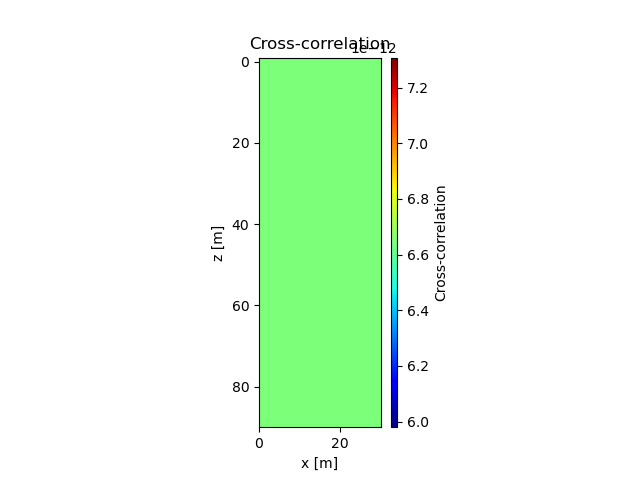
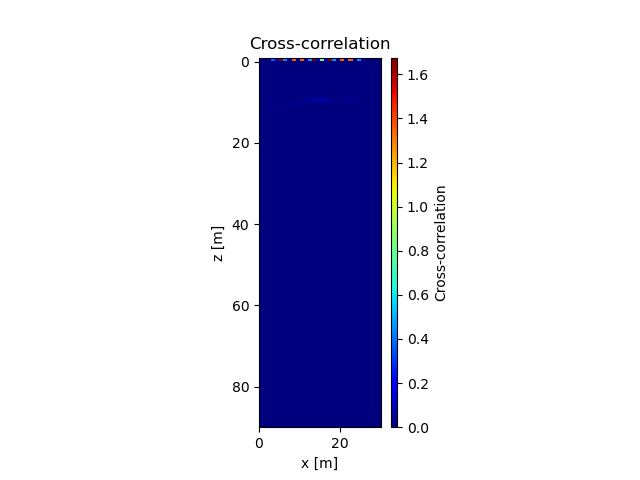
.astypeを使用してインデックス番号の計算を事前に済ませる

diff --git a/tools/Su_method.py b/tools/Su_method.py
@@ -2,16 +2,11 @@ import argparse
 import itertools
 import json
 import os
-from cProfile import label
-from math import tau
-from re import A
-from socket import AI_V4MAPPED_CFG
 
 import h5py
 import matplotlib.pyplot as plt
 import mpl_toolkits.axes_grid1 as axgrid1
 import numpy as np
-from requests import get
 from tqdm import tqdm
 
 from tools.outputfiles_merge import get_output_data
@@ -50,6 +45,11 @@ ground_depth = params['ground_depth']
 antenna_height = params['antenna_height']
 domain_z = ground_depth + antenna_height # アンテナ高さをz=0とする
 domain_array = np.zeros((domain_z, domain_x))
+
+class get_data:
+    def __init__(self):
+        self.rx_posi = int()
+
 
 rx1, dt = get_output_data(data_path, 1, 'Ez') # shape=(29679, 10)
 rx2, dt = get_output_data(data_path, 2, 'Ez')
@@ -98,17 +98,20 @@ tau_src2ref = L_src2ref / (c / np.sqrt(4)) # tau: [s], 試しに誘電率4で計
 # calculate cross-correlation
 cross_corr = np.zeros((domain_z, domain_x))
 
-def calc_Amp(i): # i: 0~antenna_num-1を入力する
+def calc_Amp(z, x, i): # i: 0~antenna_num-1を入力する
     # i番目のrxにおける遅れ時間配列（1D）を作成
     # 簡単のため，i番目のsrcで送信してi番目のrxで受診するのもOKとする
-    tau = 5e-9 + tau_src2ref[z, x, :] + tau_ref2rx[z, x, i] # i番目のrxで受信する場合の遅れ時間[s]
+    tau = 4e-9 + tau_src2ref[z, x, :] + tau_ref2rx[z, x, i] # i番目のrxで受信する場合の遅れ時間[s]
+    tau_index = (tau / dt).astype(int) # tauをインデックス番号に変換
 
     # i番目のrxにおける振幅配列（1D）を作成
     Amp_array = np.zeros(antenna_num)# １次元配列, 行：rxインデックス, 列：srcインデックス
+
+    
     for src in range(antenna_num):
         # i番目のrxにおける，src番目のsrcで送信したときの振幅を取得
         rx_data, dt = get_output_data(data_path, i+1, 'Ez')
-        Amp_array[src] = rx_data[int(tau[src]/dt), src]
+        Amp_array[src] = rx_data[tau_index, src]
     return Amp_array
 
 def calc_corr():
@@ -119,7 +122,7 @@ def calc_corr():
         for z in tqdm(range(domain_z), desc='x='+str(x)):
             corr_list = [] # ここで毎回リストを初期化する
             for rx in range(antenna_num):
-                Amp_at_xz[rx] = calc_Amp(rx)
+                Amp_at_xz[rx] = calc_Amp(z, x, rx)
             # パスの組み合わせを取り出して積を計算
             for pair in itertools.permutations(Amp_at_xz[:, :], 2):
                 corr_list.append(np.abs(pair[0]) * np.abs(pair[1]))
@@ -132,6 +135,7 @@ def calc_corr():
 corr = calc_corr()
 np.savetxt(data_dir_path + '/corr.csv', corr, delimiter=',')
 
+""""
 def calc_corr_rx1():
     # forループの準備
     corr_list = []
@@ -140,6 +144,7 @@ def calc_corr_rx1():
     for x in tqdm(range(domain_x)):
         for z in range(domain_z):
             tau = 5e-9 + tau_src2ref[z, x, 1:] + tau_ref2rx[z, x, 0] # tx1で送信の場合の遅れ時間[s]
+            tau_index = (tau / dt).astype(int) # tauをインデックス番号に変換
             #  tauに対応するrx1の振幅を取得
             Amp =  np.zeros(antenna_num-1)
             Amp[0] = rx1[int(tau[0]/dt), 1] # rx1, src2
@@ -163,6 +168,7 @@ def calc_corr_rx1():
     return cross_corr
 
 #corr_rx1 = calc_corr_rx1()
+"""
 
 # plot
 fig = plt.figure(facecolor='w', edgecolor='w')
